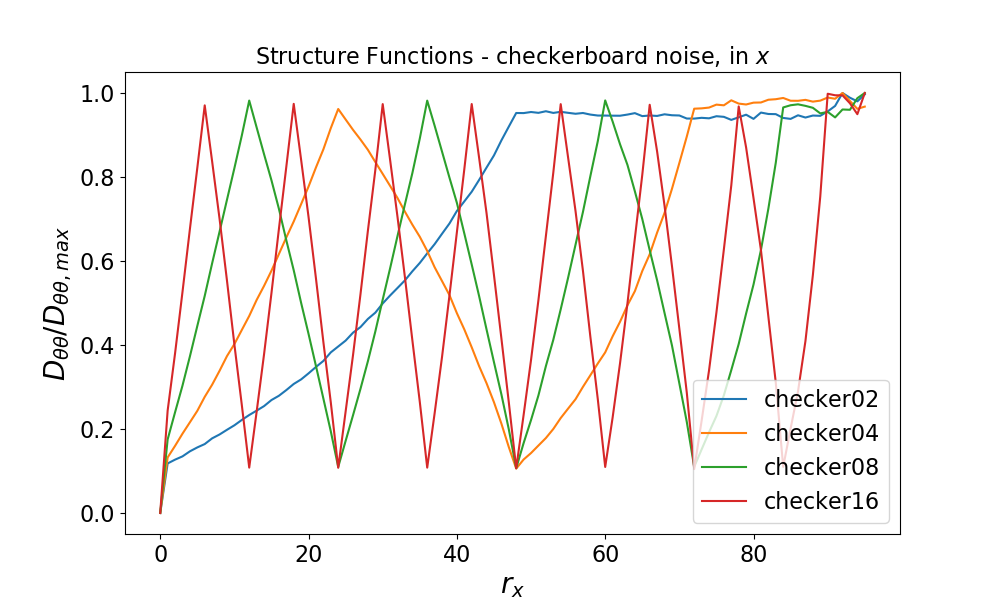
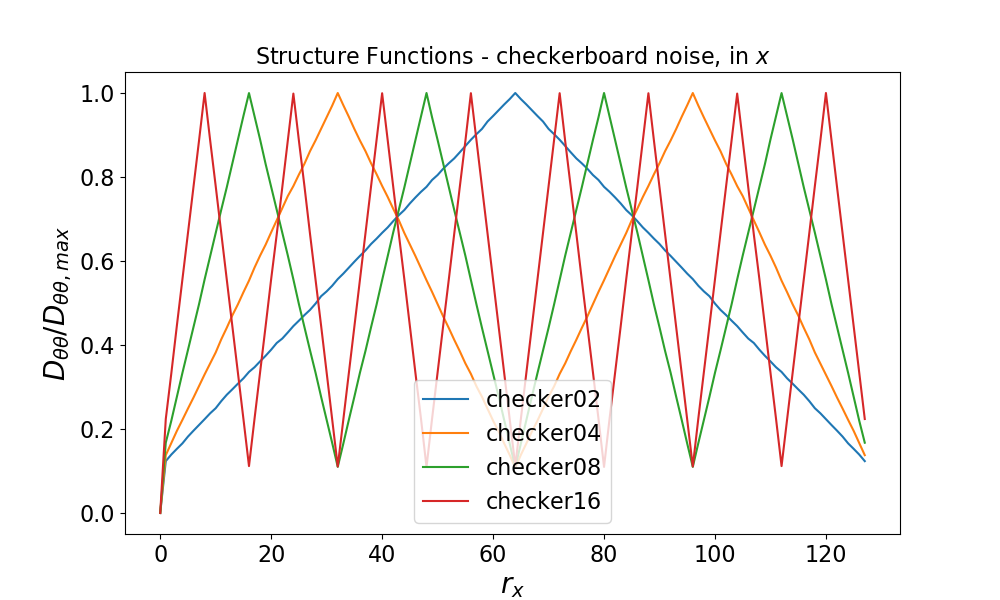
new plots and funcs
new plots using new method
function semivariogram() now has kwarg PEAK for using the method of first peaks when ideal patterns are used

diff --git a/funcs.py b/funcs.py
@@ -105,7 +105,7 @@ def shuffle(arr, n_sections):
     return new_arr
 
 
-def semivariogram(arr):
+def semivariogram(arr,peak=False):
 
     """
     This is a brute-force semivariogram code which computes the structure
@@ -118,7 +118,7 @@ def semivariogram(arr):
     
     Built off of NumPy
     """
-     
+    
     # range of rx
     rx_vals = np.arange(np.shape(arr)[1])
     
@@ -137,7 +137,7 @@ def semivariogram(arr):
     # now we have a list of rx values and structure function values
     # rx_val and semivar - convert semivar to array
     semivar = np.array(semivar)
-    print("    Semivariogram obtained and normalized")
+    print("    Semivariogram obtained")
     
     # check for all zeros in semivar
     all_zeros = not np.any(semivar)
@@ -151,6 +151,52 @@ def semivariogram(arr):
         # but only for semivar once it reaches it's approx maximum value
         # for a periodic domain, this is done when the shift is
         # half of the domain
+        
+        # in the case where the peak is true (for ideal patterns)
+        if peak == True:
+            
+            # normalized semivariogram
+            semivarn = semivar/np.max(semivar)
+            
+            # calculate cutoff
+            n = 0.1
+            print(f"    Using PEAK method: first maxima that is {n} from maximum")
+            
+            # normalized list of local maxima
+            lmax = argrelextrema(semivarn, np.greater_equal)[0]
+        
+            # compare the absolute difference between 1 and the first maxima
+            for i in range(len(lmax)):
+                #print(i,lmax[i])
+                if abs(1.0-semivarn[lmax[i]]) <= n:
+                    cutoff_location = np.where(semivarn==semivarn[lmax[i]])[0][0]   
+                    print(f"    Max value found at rx={lmax[i]}")
+                    break
+                
+            # now cut the array and calculate integrand
+            integrand = 1.0 - (semivar[:cutoff_location+1]/np.max(semivar))
+            
+            # calculate change in rx
+            drx = 1.0
+            
+            # estimate integral using simpsons rule to get integral length scale
+            l_p = simps(integrand, dx=drx)
+            
+            return rx_vals, semivar, l_p
+
+
+        integrand = 1.0 - (semivar[:len(semivar)//2]/np.max(semivar))
+        
+        # calculate change in rx
+        # should be 1 for using the arange function
+        # but this might change later
+        drx = 1.0
+        
+        # estimate integral using simpsons rule to get integral length scale
+        l_p = simps(integrand, dx=drx)
+        # l_p = np.sum(integrand)
+        # print(l_p)
+            
         
         # now cut the array halfway and calculate integrand
         integrand = 1.0 - (semivar[:len(semivar)//2]/np.max(semivar))
@@ -277,10 +323,6 @@ def semi_old(arr):
         print("    All homogeneous in this direction, semivar is empty")
    
     return rx_vals, semivar, l_p
-
-
-
-
 
 
 

diff --git a/quantify_het/quantify_het.py b/quantify_het/quantify_het.py
@@ -28,11 +28,16 @@ plt.close('all')
 
 # load the array text file from the surface folder
 # current options: checkerboard, strips
-pattern = 'esiber_2000_jul06'
+#                 beaufo_2000_aug31, esiber_2000_jul06
+#                 cafram_2000_aug07
+
+
+pattern = 'cafram_2000_aug07'
 noise = False
+peak = False
 reso = 128
-#lp = os.path.join(root, 'surfaces','checkerboard','arrays'); s_cutoff = -17
-#lp = os.path.join(root,'surfaces','strips','arrays','perp'); s_cutoff = -22
+#lp = os.path.join(root, 'surfaces',pattern,'arrays'); s_cutoff = -17
+#lp = os.path.join(root,'surfaces',pattern,'arrays','perp'); s_cutoff = -22
 lp = os.path.join(root, 'surfaces',pattern,'arrays'); s_cutoff = -4
 #checkerboard=-17, strips=-22
 
@@ -84,8 +89,8 @@ for filename in sorted(os.listdir(lp)):
             #plt.colorbar()
         
         # calculate rx and semivariogram, append int_scale
-        rx, semivarx, int_scalex = fn.semivariogram(arr)
-        ry, semivary, int_scaley = fn.semivariogram(arr.T)
+        rx, semivarx, int_scalex = fn.semivariogram(arr,peak=peak)
+        ry, semivary, int_scaley = fn.semivariogram(arr.T,peak=peak)
         int_scale_dict_x[filename[:s_cutoff]] = int_scalex
         int_scale_dict_y[filename[:s_cutoff]] = int_scaley
         
@@ -94,7 +99,7 @@ for filename in sorted(os.listdir(lp)):
         ax_y.plot(ry,semivary/np.max(semivary),label=f"{filename[:-17]}")
         
         
-# finish plotting and show
+### finish plotting and save ###
 
 # formatting and labels
 ax_x.set_xlabel(r'$r_x$',fontsize=20)
@@ -110,7 +115,6 @@ ax_y.tick_params(labelsize=16)
 ax_y.legend(fontsize=16)
 ax_y.set_title(struc_title+r", in $y$",fontsize=16)
 fig_y.savefig(os.path.join(root,'results','structure_functions',fname+'_y.png'))
-
 
 # bar graph of int length scales
 width=0.35
@@ -131,15 +135,34 @@ ax.tick_params(labelsize=16)
 plt.savefig(os.path.join(root,'results','int_het_scale_comparison',fname+'_y.png'))
 plt.close()
 
-##### using scikit-gstat #####
+### now save text files of int length scales ###
 
-#from skgstat import Variogram
-## random coordinates
-#coords = np.random.randint(0, np.shape(arr)[0], (150,2))
-#values = np.fromiter((arr[c[0], c[1]] for c in coords), float)
-#V = Variogram(coords,values)
-#V.plot()
-#V.distance_difference_plot()
+# columns should be same for both x and y
+csv_columns = list(int_scale_dict_x.keys())
+
+# csv filenames for both x and y
+csv_x = fname + "_x.csv"
+csv_y = fname + "_y.csv"
+
+# save files for x
+with open(os.path.join(root, 'results','int_het_scale_txts',csv_x), 'w') as f:
+    for key, value in int_scale_dict_x.items():
+        f.write('%s,%s\n' % (key, value))
+f.close()
+# and y
+with open(os.path.join(root, 'results','int_het_scale_txts',csv_y), 'w') as f:
+    for key, value in int_scale_dict_x.items():
+        f.write('%s,%s\n' % (key, value))
+f.close()
+
+
+
+
+
+
+
+
+
 
 
 
